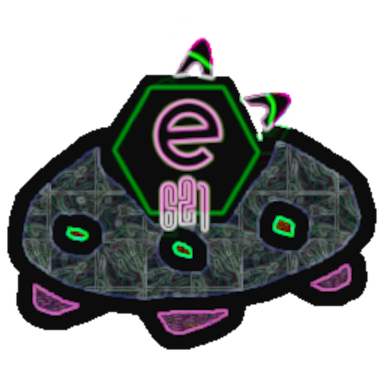
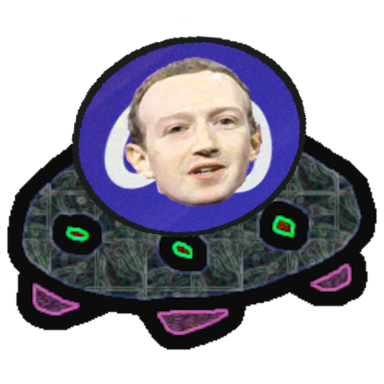
sfw ver + fixes

Changed region(s): [[0.1875, 0.0938, 0.8125, 0.625]]

diff --git a/src/components/Boss.ts b/src/components/Boss.ts
@@ -41,6 +41,9 @@ export class Boss extends Enemy {
     public maxdps: number = 6000;
     public dps: number = 0;
     public prr: boolean = false;
+    public bleed: boolean = false;
+    public bleedTimer: number = 0;
+    public bleedAmount: number = 0;
     
     constructor(scene: GameScene, x: number, y: number, type: number = 0) {
         super(scene, x, y, type);
@@ -592,7 +595,7 @@ export class Boss extends Enemy {
         [
             new BossCommand(this, [
                 {key: "prorate", value: [], args: [], conditions: []},
-                {key: "wait", value: [2500], args: [], conditions: []},
+                {key: "wait", value: [2000], args: [], conditions: []},
                 {key: "nohit", value: [], args: [], conditions: [false]},
                 {key: "wait", value: [250], args: [], conditions: []},
                 {key: "sound", value: [0.25], args: ["shot-1"], conditions: []},
@@ -607,11 +610,11 @@ export class Boss extends Enemy {
                 {key: "sound", value: [0.25], args: ["shot-1"], conditions: []},
                 {key: "shootCorner", value: [3], args: [], conditions: []},
                 {key: "wait", value: [150], args: [], conditions: []},
-                {key: "wait", value: [6500], args: [], conditions: []},
+                {key: "wait", value: [4000], args: [], conditions: []},
                 {key: "loop", value: [2], args: [], conditions: []},
             ]), 
             new BossCommand(this, [
-                {key: "wait", value: [3500], args: [], conditions: []},
+                {key: "wait", value: [2500], args: [], conditions: []},
                 {key: "wait", value: [250], args: [], conditions: []},
                 {key: "sound", value: [0.4], args: ["thshoot"], conditions: []},
                 {key: "shootRockBlast", value: [0], args: [], conditions: []},
@@ -619,7 +622,7 @@ export class Boss extends Enemy {
                 {key: "wait", value: [250], args: [], conditions: []},
                 {key: "sound", value: [0.4], args: ["thshoot"], conditions: []},
                 {key: "shootRockBlast", value: [0], args: [], conditions: []},
-                {key: "wait", value: [4600], args: [], conditions: []},
+                {key: "wait", value: [3600], args: [], conditions: []},
                 {key: "loop", value: [1], args: [], conditions: []},
             ]), 
             new BossCommand(this, [
@@ -1016,8 +1019,17 @@ export class Boss extends Enemy {
                     rd = 0.01;
                 }
                 this.dmgRes = rd;
-                if(this.tEl > 24) {
+
+                if(this.tEl > 30) {
                     this.dmgRes=2;
+                    if(!this.bleedParams[0]) {
+                        this.bleedParams = [true,true];
+                        this.bleedValue = [this.health/50,0,500];
+                    }
+                }
+
+                if(this.tEl > 24) {
+                    this.dmgRes=1.75;
                 }
             }
         }
@@ -1072,6 +1084,8 @@ export class Boss extends Enemy {
         this.dps = 0;
         this.tEl = 0;
         this.dmgRes = 1;
+        this.bleedParams = [false,false];
+        this.bleedValue = [0,0,500];
     }
 
     updateSpawnCheck(): void {

diff --git a/src/components/Enemy.ts b/src/components/Enemy.ts
@@ -60,7 +60,8 @@ export class Enemy extends Phaser.GameObjects.Container {
     private static HITCIRCLE: number = 0;
     public dmgRes: number = 1;
     public flatRes: number = 1;
-
+    public bleedParams: boolean[] = [false,false];
+    public bleedValue: number[] = [0,0,500];
     public boxHeight: number = 0;
     public boxWidth: number = 0;
     public hitMode: number = 0;
@@ -195,7 +196,7 @@ export class Enemy extends Phaser.GameObjects.Container {
             damage: 6666,
             sprite: "curse_rock",
             duration: 20000,
-            radius: 240,
+            radius: 110,
             critChance: 1,
             critDmg: 1.0,
             useBox: false, boxParams: [96,36],
@@ -231,7 +232,7 @@ export class Enemy extends Phaser.GameObjects.Container {
             damage: 1337,
             sprite: "ruby",
             duration: 20000,
-            radius: 55,
+            radius: 42,
             critChance: 1,
             critDmg: 1.0,
             useBox: false, boxParams: [96,36],
@@ -243,7 +244,7 @@ export class Enemy extends Phaser.GameObjects.Container {
             damage: 1337,
             sprite: "emerald",
             duration: 20000,
-            radius: 55,
+            radius: 42,
             critChance: 1,
             critDmg: 1.0,
             useBox: false, boxParams: [96,36],
@@ -255,7 +256,7 @@ export class Enemy extends Phaser.GameObjects.Container {
             damage: 1337,
             sprite: "diamond",
             duration: 20000,
-            radius: 55,
+            radius: 42,
             critChance: 1,
             critDmg: 1.0,
             useBox: false, boxParams: [96,36],
@@ -267,7 +268,7 @@ export class Enemy extends Phaser.GameObjects.Container {
             damage: 6666,
             sprite: "small_curse_rock",
             duration: 20000,
-            radius: 110,
+            radius: 98,
             critChance: 1,
             critDmg: 1.0,
             useBox: false, boxParams: [96,36],

diff --git a/src/components/PowerUpHandler.ts b/src/components/PowerUpHandler.ts
@@ -142,7 +142,7 @@ export class PowerUpHandler{
 
         this.powerUpTable.set(powerID.PLAIN_RED, [0]);
         this.powerUpTable.set(powerID.SHOTGUN, [2, 0.3]); //number of pellets, damage %
-        this.powerUpTable.set(powerID.ONHIT_DMG, [20]);
+        this.powerUpTable.set(powerID.ONHIT_DMG, [30]);
         this.powerUpTable.set(powerID.CHAIN_CRIT, [0.30]);
         this.powerUpTable.set(powerID.ARMOR_PEN, [0.6, 3]); //percent, flat
 
@@ -364,6 +364,7 @@ export class PowerUpHandler{
                 this.currentIterations = this.widgetTable[n].iterations;
                 this.checkForward();
                 this.workingParam.baseDamage += this.currentIterations*Math.pow(this.baseDamage,2);
+                this.workingParam.missileCount += this.currentIterations*Math.pow(this.workingParam.missileCount,2);
                 break;
             } case powerID.SMITE: {
                 this.currentIterations = this.widgetTable[n].iterations;

diff --git a/src/components/Turret.ts b/src/components/Turret.ts
@@ -219,7 +219,7 @@ export class Turret{
 		let ly = Math.sin(angle);
 		this.scene.sound.play("missile_sound", {volume:0.25});
 		let wp = {
-			velocity: this.defaultProjectileData.velocity*1.15*this.workingParams.pspeed,
+			velocity: this.defaultProjectileData.velocity*(0.85+(Math.random()*(0.6)))*this.workingParams.pspeed,
 			radius: this.defaultProjectileData.radius,
 			pID: this.scene.getProjID(),
 			duration: this.defaultProjectileData.duration,
@@ -240,6 +240,7 @@ export class Turret{
 			lm = angle + ((-10+(Math.random()*20))*Math.PI/180);
 			this.workingProjectileData.pID = this.scene.getProjID();
 			this.scene.addProjectile(new Projectile(this.scene, this.x+(128*lx), this.y+(128*ly), lm,  this.cloneProjectileData(wp), this.cloneTurretData(wx)));
+			wp.velocity = this.defaultProjectileData.velocity*(0.85+(Math.random()*(0.6)))*this.workingParams.pspeed;
 		}
 	}
 

diff --git a/src/components/GlobalVariables.ts b/src/components/GlobalVariables.ts
@@ -71,7 +71,7 @@ export class GlobalVariables{
     constructor(){
         //ID, owned, used
         this.myWidgets = [[0,1,0],[1,2,0],[2,2,0],[3,2,0],[4,2,0],[5,2,0],[6,4,0],[7,2,0],[8,2,0],[9,3,0],[10,2,0],[11,3,0],[12,3,0],
-        [13,3,0],[14,8,0],[15,3,0],[16,3,0],[17,3,0],[18,4,0],[19,4,0],[20,5,0],[21,5,0],[22,5,0],[23,5,0],[24,3,0],[25,1,0]];
+        [13,3,0],[14,8,0],[15,3,0],[16,3,0],[17,3,0],[18,4,0],[19,4,0],[20,5,0],[21,5,0],[22,1,0],[23,3,0],[24,3,0],[25,1,0]];
 
         this.myTurrets = [];
         this.selectedTurret = -1;

diff --git a/src/components/Projectile.ts b/src/components/Projectile.ts
@@ -322,6 +322,14 @@ export class Projectile extends Phaser.GameObjects.Container {
                 }
             }
         }
+
+        if(target.bleedParams[0] && target.bleedParams[1]) {
+            r += Math.round(target.bleedValue[0]);
+            target.bleedParams[1] = false;
+            target.bleedValue[1] = target.bleedValue[2];
+            this.critThisTick = true;
+        }
+
         return Math.round(r);
     }
 

diff --git a/src/scenes/TitleScene.ts b/src/scenes/TitleScene.ts
@@ -319,7 +319,7 @@ export class TitleScene extends BaseScene {
 			this.subtitle.setVisible(true);
 			this.subtitle.setAlpha(1);
 		} else if (!this.isStarting) {
-			this.sound.play("t_rustle", { volume: 0.3 });
+			this.sound.play("escape", { volume: 0.3 });
 			// this.sound.play("m_slice", { volume: 0.3 });
 			// this.sound.play("u_attack_button", { volume: 0.5 });
 			// this.select2.play();

diff --git a/src/components/SnailEnemy.ts b/src/components/SnailEnemy.ts
@@ -18,6 +18,7 @@ export class SnailEnemy extends Enemy{
         this.velocity[1] = this.myInfo.vy;
         this.setAngle(Math.random()*360);
         this.rvel = 120+Math.random()*240;
+        this.unSmited = false;
 
     }
 
